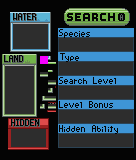
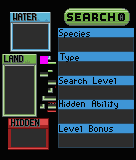
fix dexnav interface labels

diff --git a/src/dexnav.c b/src/dexnav.c
@@ -160,9 +160,9 @@ static void DrawHiddenSearchWindow(u8 width);
 static const u32 sDexNavGuiTilesDark[] = INCBIN_U32("graphics/dexnav/gui_tiles_dark.4bpp.lz");
 static const u32 sDexNavGuiTilemapDark[] = INCBIN_U32("graphics/dexnav/gui_tilemap_dark.bin.lz");
 static const u32 sDexNavGuiPalDark[] = INCBIN_U32("graphics/dexnav/gui_dark.gbapal");
-static const u32 sDexNavGuiTiles[] = INCBIN_U32("graphics/dexnav/gui_tiles.4bpp.lz");
-static const u32 sDexNavGuiTilemap[] = INCBIN_U32("graphics/dexnav/gui_tilemap.bin.lz");
-static const u32 sDexNavGuiPal[] = INCBIN_U32("graphics/dexnav/gui.gbapal");
+static const u32 sDexNavGuiTiles[] = INCBIN_U32("graphics/dexnav/gui_tiles_light.4bpp.lz");
+static const u32 sDexNavGuiTilemap[] = INCBIN_U32("graphics/dexnav/gui_tilemap_light.bin.lz");
+static const u32 sDexNavGuiPal[] = INCBIN_U32("graphics/dexnav/gui_light.gbapal");
 
 static const u32 sSelectionCursorGfx[] = INCBIN_U32("graphics/dexnav/cursor.4bpp.lz");
 static const u16 sSelectionCursorPal[] = INCBIN_U16("graphics/dexnav/cursor.gbapal");

diff --git a/include/constants/general.h b/include/constants/general.h
@@ -539,6 +539,6 @@
 #endif
 //end hack
 
-#define EE_GAME_VERSION 9277
+#define EE_GAME_VERSION 9278
 
 #endif 
